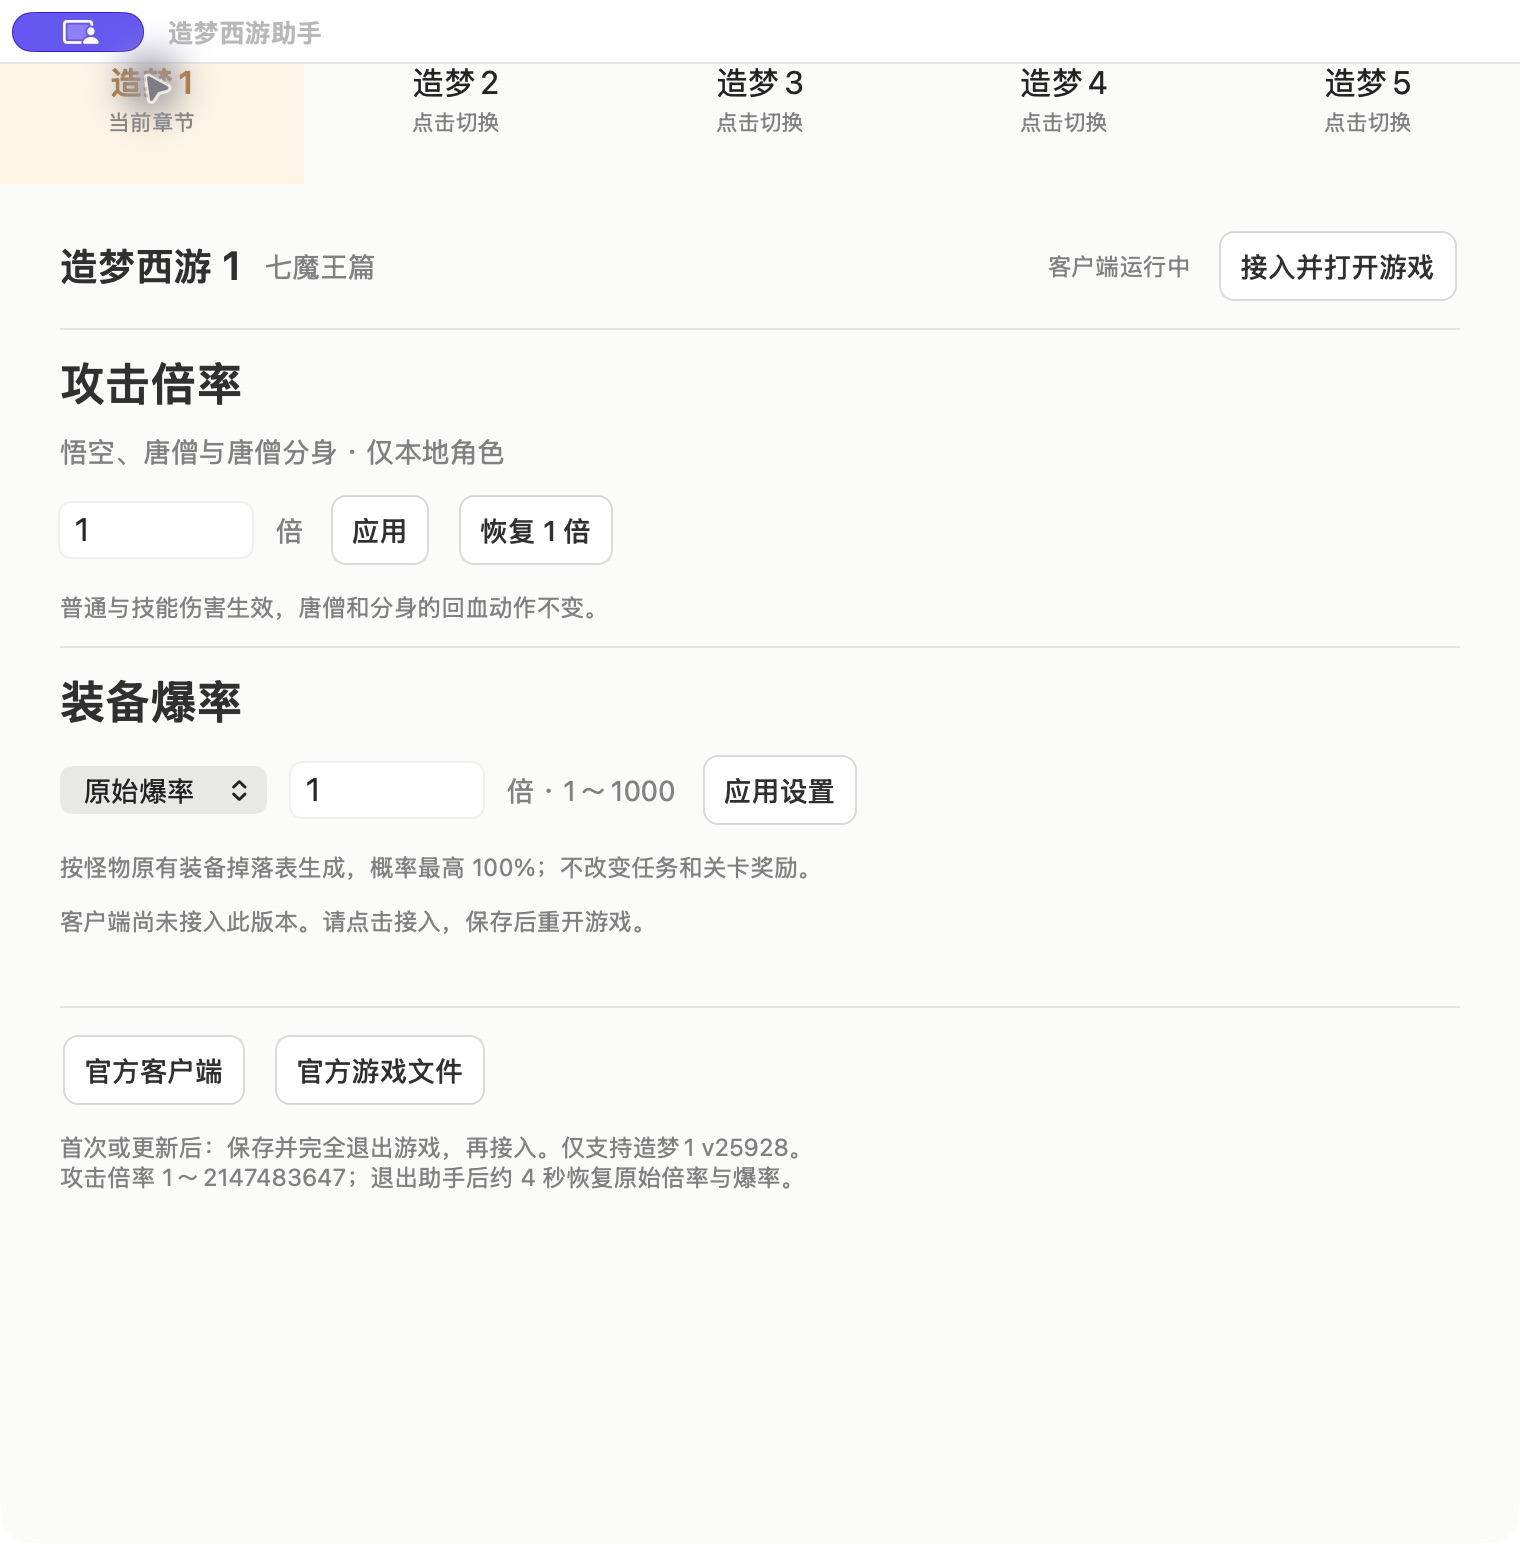
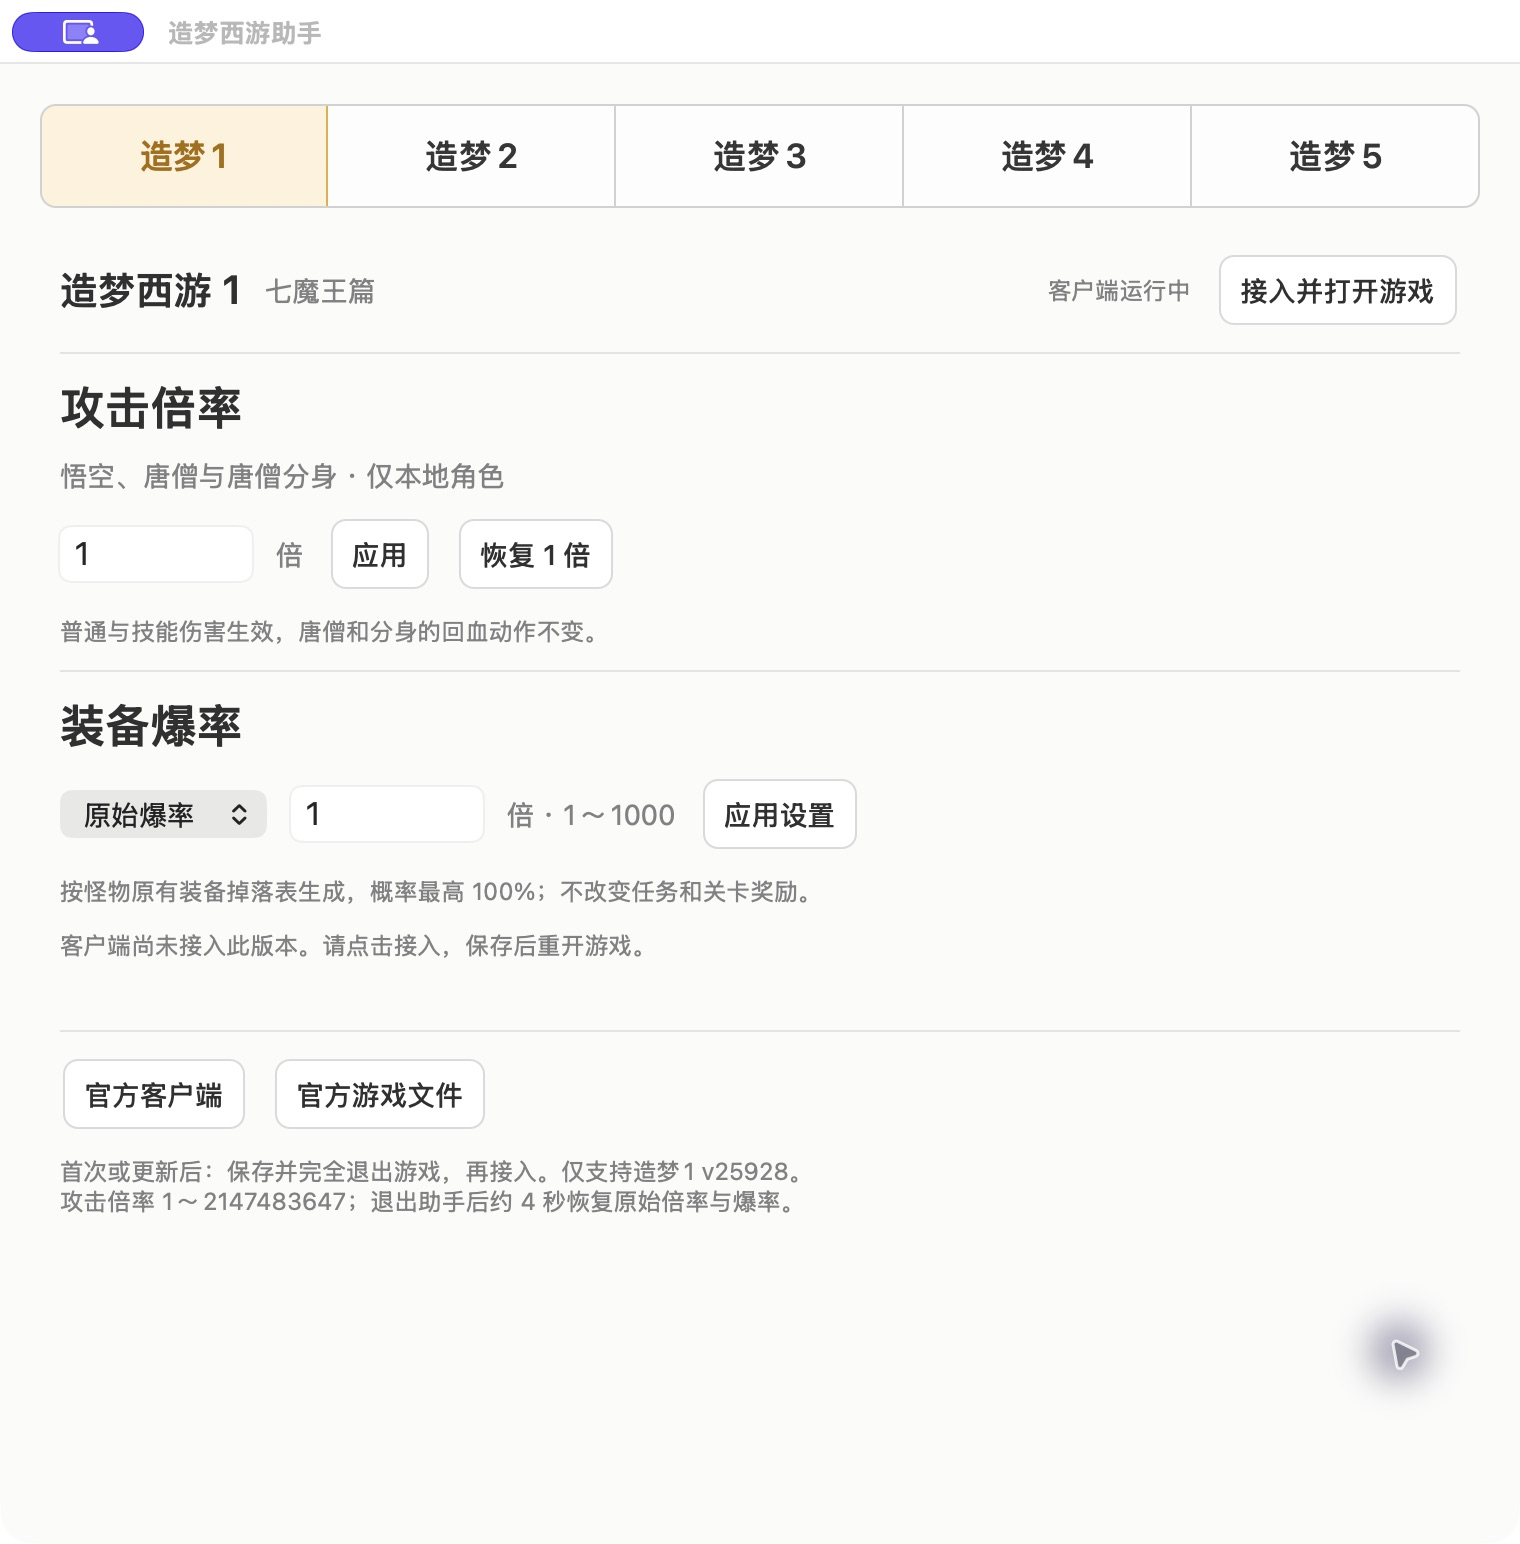
fix: enlarge chapter navigation and clarify selection (#13)

diff --git a/zm5-only/main.swift b/zm5-only/main.swift
@@ -40,6 +40,49 @@ private final class HelperButton: NSButton {
     }
 }
 
+// Each chapter is a full-size native button: mouse, keyboard and AX share one target.
+private final class ChapterButton: NSButton {
+    var drawsDivider = false
+    private let selectedFill = NSColor(calibratedRed: 1, green: 0.94, blue: 0.83, alpha: 1)
+    private let selectedInk = NSColor(calibratedRed: 0.60, green: 0.35, blue: 0.06, alpha: 1)
+    private let selectedBorder = NSColor(calibratedRed: 0.88, green: 0.62, blue: 0.22, alpha: 1)
+    private let divider = NSColor(calibratedWhite: 0.78, alpha: 1)
+
+    override var intrinsicContentSize: NSSize { NSSize(width: 100, height: 52) }
+
+    override func draw(_ dirtyRect: NSRect) {
+        let selected = state == .on
+        let fill = selected ? selectedFill : NSColor(calibratedWhite: 0.99, alpha: 1)
+        (isHighlighted ? fill.blended(withFraction: 0.06, of: .black)! : fill).setFill()
+        bounds.fill()
+        if selected {
+            selectedBorder.setStroke()
+            let border = NSBezierPath(rect: bounds.insetBy(dx: 0.5, dy: 0.5))
+            border.lineWidth = 1
+            border.stroke()
+        } else if drawsDivider {
+            divider.setStroke()
+            let line = NSBezierPath()
+            line.move(to: NSPoint(x: bounds.maxX - 0.5, y: bounds.minY))
+            line.line(to: NSPoint(x: bounds.maxX - 0.5, y: bounds.maxY))
+            line.lineWidth = 1
+            line.stroke()
+        }
+        let text = NSAttributedString(string: title, attributes: [
+            .font: NSFont.systemFont(ofSize: 17, weight: .semibold),
+            .foregroundColor: selected ? selectedInk : NSColor(calibratedWhite: 0.16, alpha: 1)
+        ])
+        let size = text.size()
+        text.draw(at: NSPoint(x: (bounds.width - size.width) / 2, y: (bounds.height - size.height) / 2))
+        if window?.firstResponder === self {
+            NSColor.keyboardFocusIndicatorColor.setStroke()
+            let focus = NSBezierPath(roundedRect: bounds.insetBy(dx: 3, dy: 3), xRadius: 4, yRadius: 4)
+            focus.lineWidth = 2
+            focus.stroke()
+        }
+    }
+}
+
 private enum GameChapter: Int, CaseIterable {
     case one = 1, two = 2, three = 3, four = 4, five = 5
     var game: String { "zm\(rawValue)" }
@@ -243,7 +286,12 @@ final class AttackApp: NSObject, NSApplicationDelegate {
     }
 
     @objc private func selectChapter(_ sender: NSButton) {
-        guard let selected = GameChapter(rawValue: sender.tag), selected != chapter else { return }
+        guard let selected = GameChapter(rawValue: sender.tag) else { return }
+        guard selected != chapter else {
+            sender.state = .on
+            sender.needsDisplay = true
+            return
+        }
         // Finish editing while callbacks still address the previous chapter.
         window.makeFirstResponder(nil)
         chapter = selected
@@ -266,25 +314,21 @@ final class AttackApp: NSObject, NSApplicationDelegate {
 
         let chapters = row([], spacing: 0)
         chapters.distribution = .fillEqually
-        for number in 1...5 {
-            let available = GameChapter(rawValue: number) != nil
-            let selected = chapter.rawValue == number
-            let title = NSButton(title: "造梦\(number)", target: self, action: #selector(selectChapter(_:)))
-            title.tag = number
-            title.isEnabled = available
-            title.isBordered = false
-            title.font = .systemFont(ofSize: 16, weight: selected ? .semibold : .regular)
-            title.contentTintColor = selected ? amber : (available ? ink : muted)
-            title.setAccessibilityLabel("造梦\(number)，\(selected ? "当前章节" : (available ? "切换章节" : "暂未支持"))")
-            let detail = label(selected ? "当前章节" : (available ? "点击切换" : "暂未支持"), size: 11, secondary: true)
-            detail.alignment = .center
-            let item = NSStackView(views: [title, detail])
-            item.orientation = .vertical
-            item.spacing = 3
-            item.wantsLayer = true
-            item.layer?.backgroundColor = selected
-                ? NSColor(calibratedRed: 1, green: 0.95, blue: 0.87, alpha: 1).cgColor : surface.cgColor
-            item.heightAnchor.constraint(equalToConstant: 60).isActive = true
+        chapters.wantsLayer = true
+        chapters.layer?.cornerRadius = 8
+        chapters.layer?.masksToBounds = true
+        chapters.layer?.borderWidth = 1
+        chapters.layer?.borderColor = NSColor(calibratedWhite: 0.78, alpha: 1).cgColor
+        for game in GameChapter.allCases {
+            let selected = chapter == game
+            let item = ChapterButton(title: "造梦\(game.rawValue)", target: self, action: #selector(selectChapter(_:)))
+            item.tag = game.rawValue
+            item.setButtonType(.toggle)
+            item.isBordered = false
+            item.state = selected ? .on : .off
+            item.drawsDivider = game != .five
+            item.setAccessibilityLabel("造梦\(game.rawValue)，\(selected ? "当前章节" : "切换章节")")
+            item.heightAnchor.constraint(equalToConstant: 52).isActive = true
             chapters.addArrangedSubview(item)
         }
         chapters.translatesAutoresizingMaskIntoConstraints = false
@@ -368,9 +412,9 @@ final class AttackApp: NSObject, NSApplicationDelegate {
             view.widthAnchor.constraint(equalTo: stack.widthAnchor).isActive = true
         }
         NSLayoutConstraint.activate([
-            chapters.leadingAnchor.constraint(equalTo: content.leadingAnchor),
-            chapters.trailingAnchor.constraint(equalTo: content.trailingAnchor),
-            chapters.topAnchor.constraint(equalTo: content.topAnchor),
+            chapters.leadingAnchor.constraint(equalTo: content.leadingAnchor, constant: 20),
+            chapters.trailingAnchor.constraint(equalTo: content.trailingAnchor, constant: -20),
+            chapters.topAnchor.constraint(equalTo: content.topAnchor, constant: 20),
             stack.leadingAnchor.constraint(equalTo: content.leadingAnchor, constant: 30),
             stack.trailingAnchor.constraint(equalTo: content.trailingAnchor, constant: -30),
             stack.topAnchor.constraint(equalTo: chapters.bottomAnchor, constant: 22),
@@ -437,9 +481,9 @@ final class AttackApp: NSObject, NSApplicationDelegate {
         content.addSubview(stack)
         for view in stack.arrangedSubviews { view.widthAnchor.constraint(equalTo: stack.widthAnchor).isActive = true }
         NSLayoutConstraint.activate([
-            chapters.leadingAnchor.constraint(equalTo: content.leadingAnchor),
-            chapters.trailingAnchor.constraint(equalTo: content.trailingAnchor),
-            chapters.topAnchor.constraint(equalTo: content.topAnchor),
+            chapters.leadingAnchor.constraint(equalTo: content.leadingAnchor, constant: 20),
+            chapters.trailingAnchor.constraint(equalTo: content.trailingAnchor, constant: -20),
+            chapters.topAnchor.constraint(equalTo: content.topAnchor, constant: 20),
             stack.leadingAnchor.constraint(equalTo: content.leadingAnchor, constant: 30),
             stack.trailingAnchor.constraint(equalTo: content.trailingAnchor, constant: -30),
             stack.topAnchor.constraint(equalTo: chapters.bottomAnchor, constant: 22),
@@ -552,9 +596,9 @@ final class AttackApp: NSObject, NSApplicationDelegate {
         content.addSubview(stack)
         for view in stack.arrangedSubviews { view.widthAnchor.constraint(equalTo: stack.widthAnchor).isActive = true }
         NSLayoutConstraint.activate([
-            chapters.leadingAnchor.constraint(equalTo: content.leadingAnchor),
-            chapters.trailingAnchor.constraint(equalTo: content.trailingAnchor),
-            chapters.topAnchor.constraint(equalTo: content.topAnchor),
+            chapters.leadingAnchor.constraint(equalTo: content.leadingAnchor, constant: 20),
+            chapters.trailingAnchor.constraint(equalTo: content.trailingAnchor, constant: -20),
+            chapters.topAnchor.constraint(equalTo: content.topAnchor, constant: 20),
             stack.leadingAnchor.constraint(equalTo: content.leadingAnchor, constant: 30),
             stack.trailingAnchor.constraint(equalTo: content.trailingAnchor, constant: -30),
             stack.topAnchor.constraint(equalTo: chapters.bottomAnchor, constant: 22),

diff --git a/README.md b/README.md
@@ -6,7 +6,7 @@
 
 ## 项目预览
 
-浅色原生 Mac 面板，突出倍率输入与应用操作；顶部可切换造梦1、2、3、4、5，各自保留本次运行的倍率与状态；造梦2提供「战斗与掉落」「强化与合成」「强化石与翅膀」，造梦3提供「战斗与掉落」「炼丹与强化」「物品与宠物」分类；造梦1在同一面板调整攻击和爆率。支持恢复1倍、下载官方依赖并接入游戏。
+浅色原生 Mac 面板，突出倍率输入与应用操作；顶部通过带清晰分界线的整块按钮切换造梦1、2、3、4、5，选中章节以浅琥珀色突出，不显示辅助小字；各自保留本次运行的倍率与状态；造梦2提供「战斗与掉落」「强化与合成」「强化石与翅膀」，造梦3提供「战斗与掉落」「炼丹与强化」「物品与宠物」分类；造梦1在同一面板调整攻击和爆率。支持恢复1倍、下载官方依赖并接入游戏。
 
 ![造梦西游助手：造梦1章节](assets/preview.png)
 
